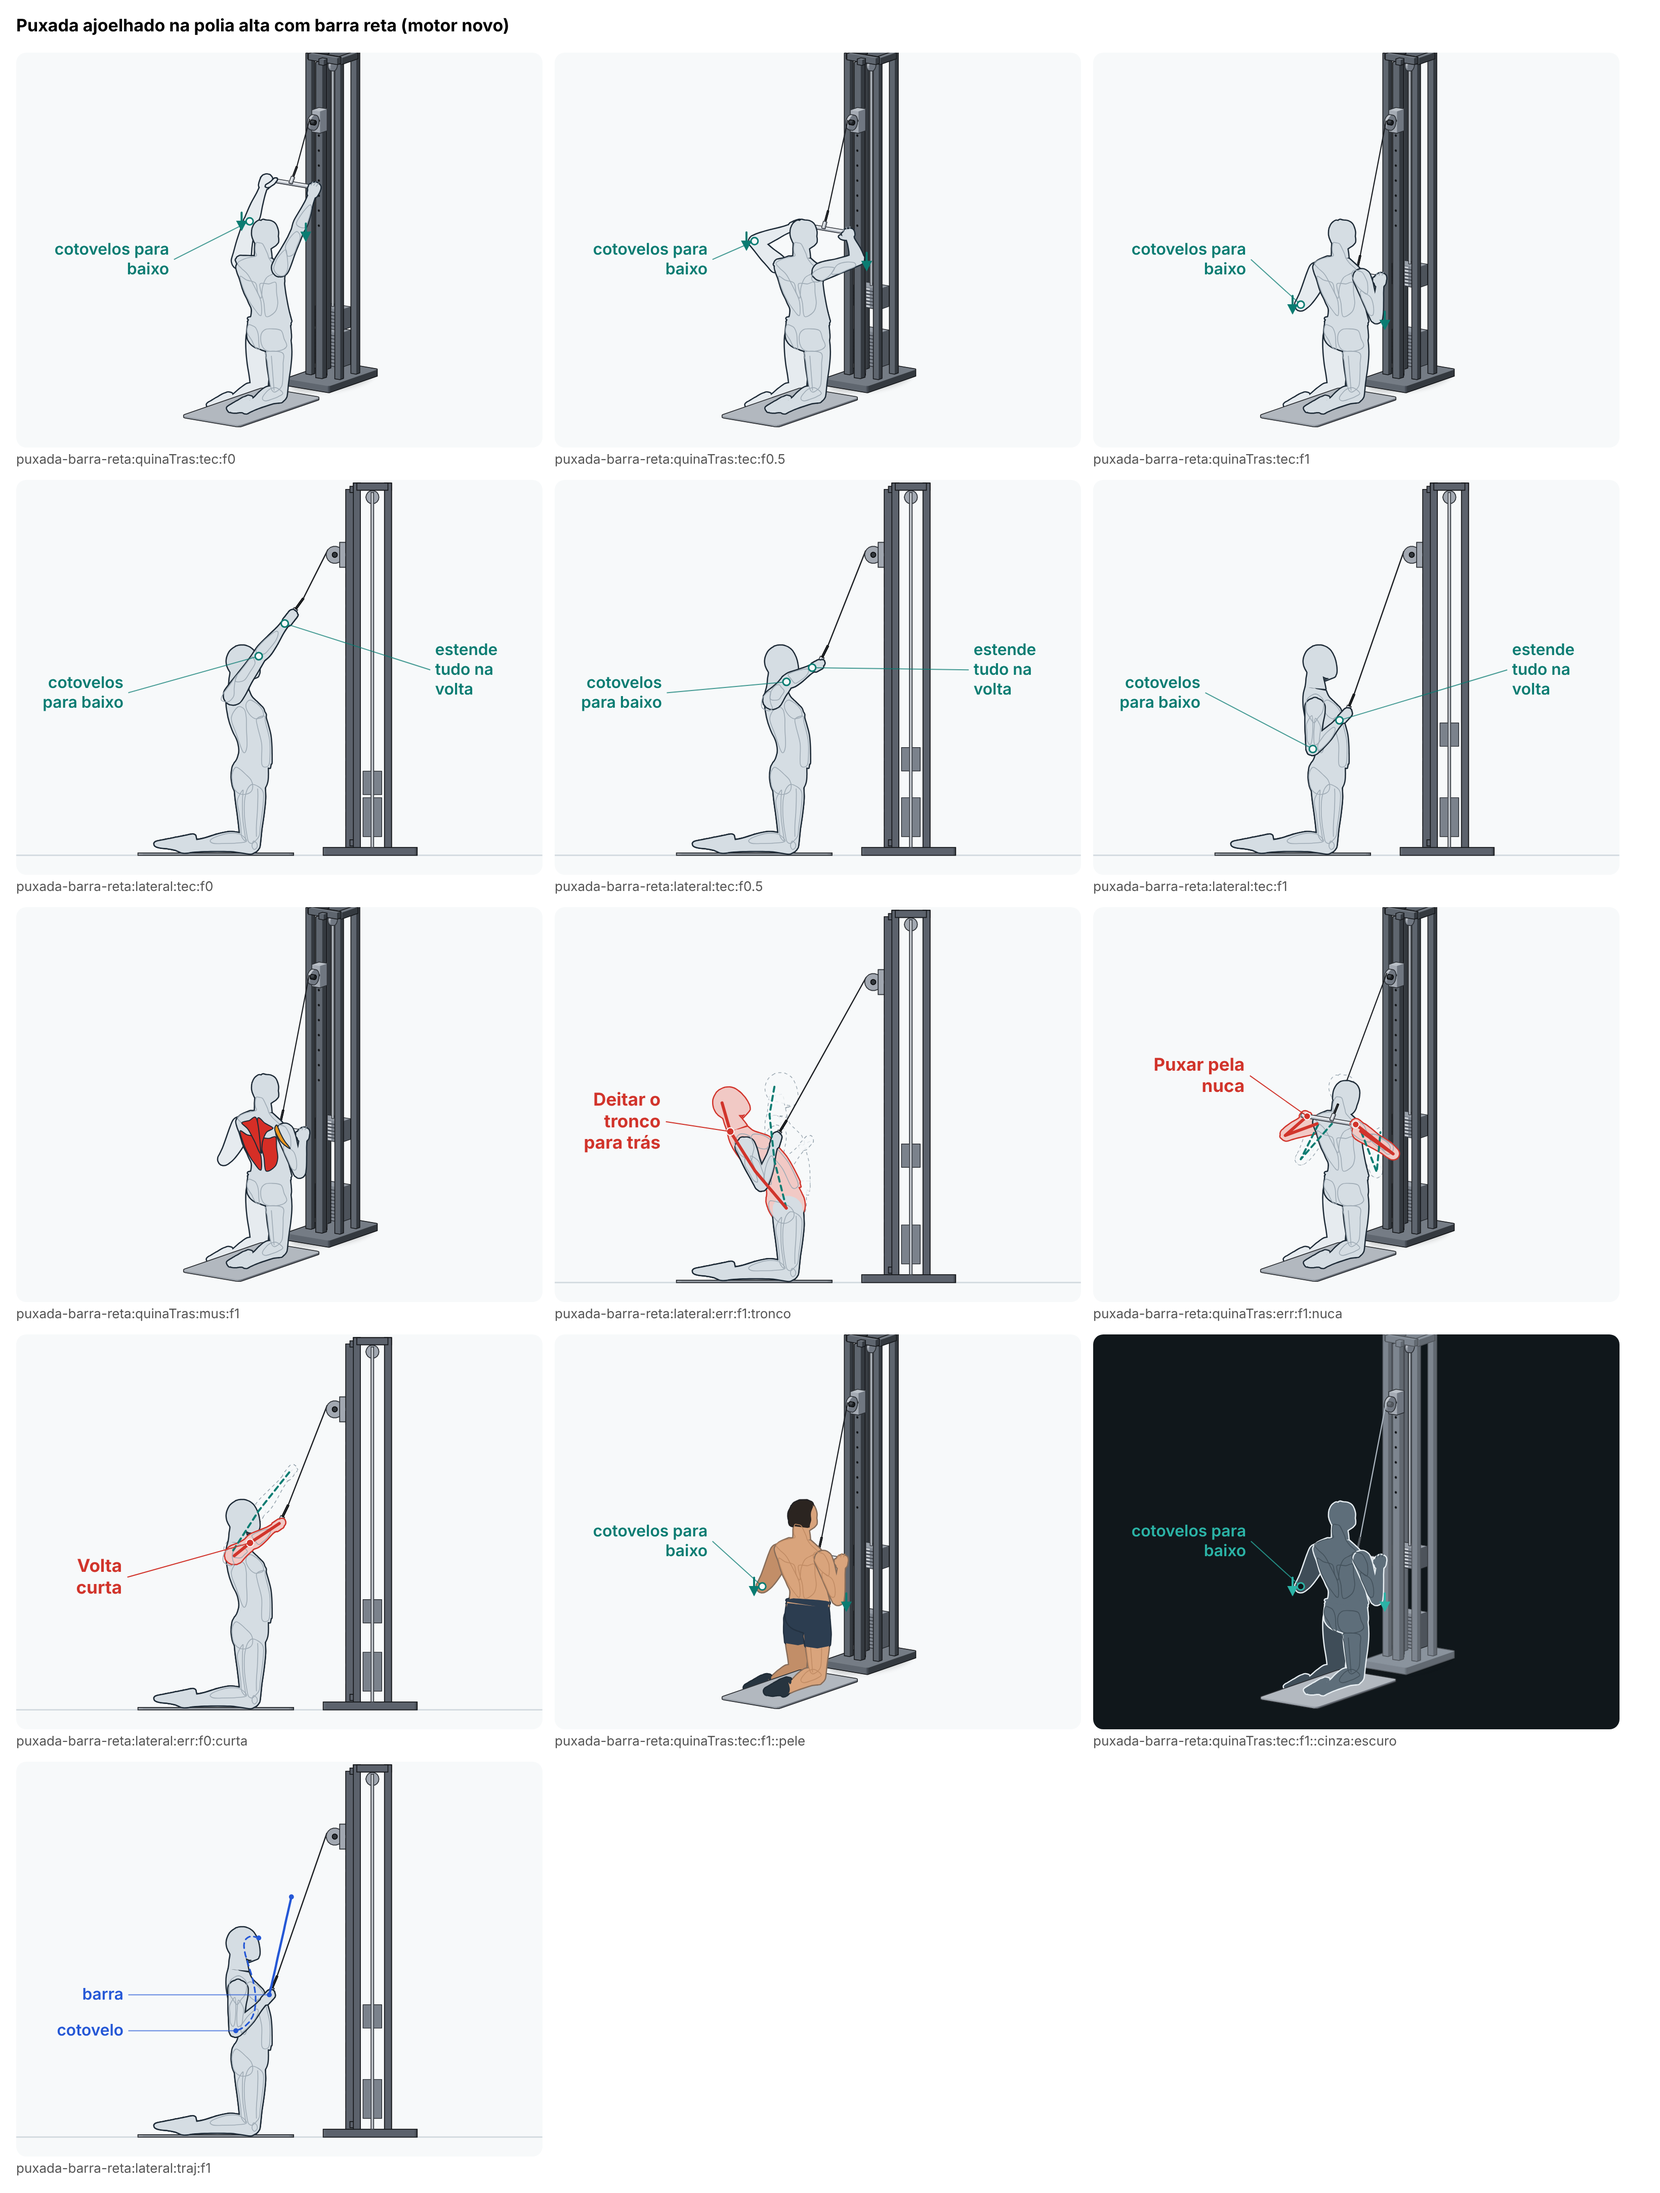
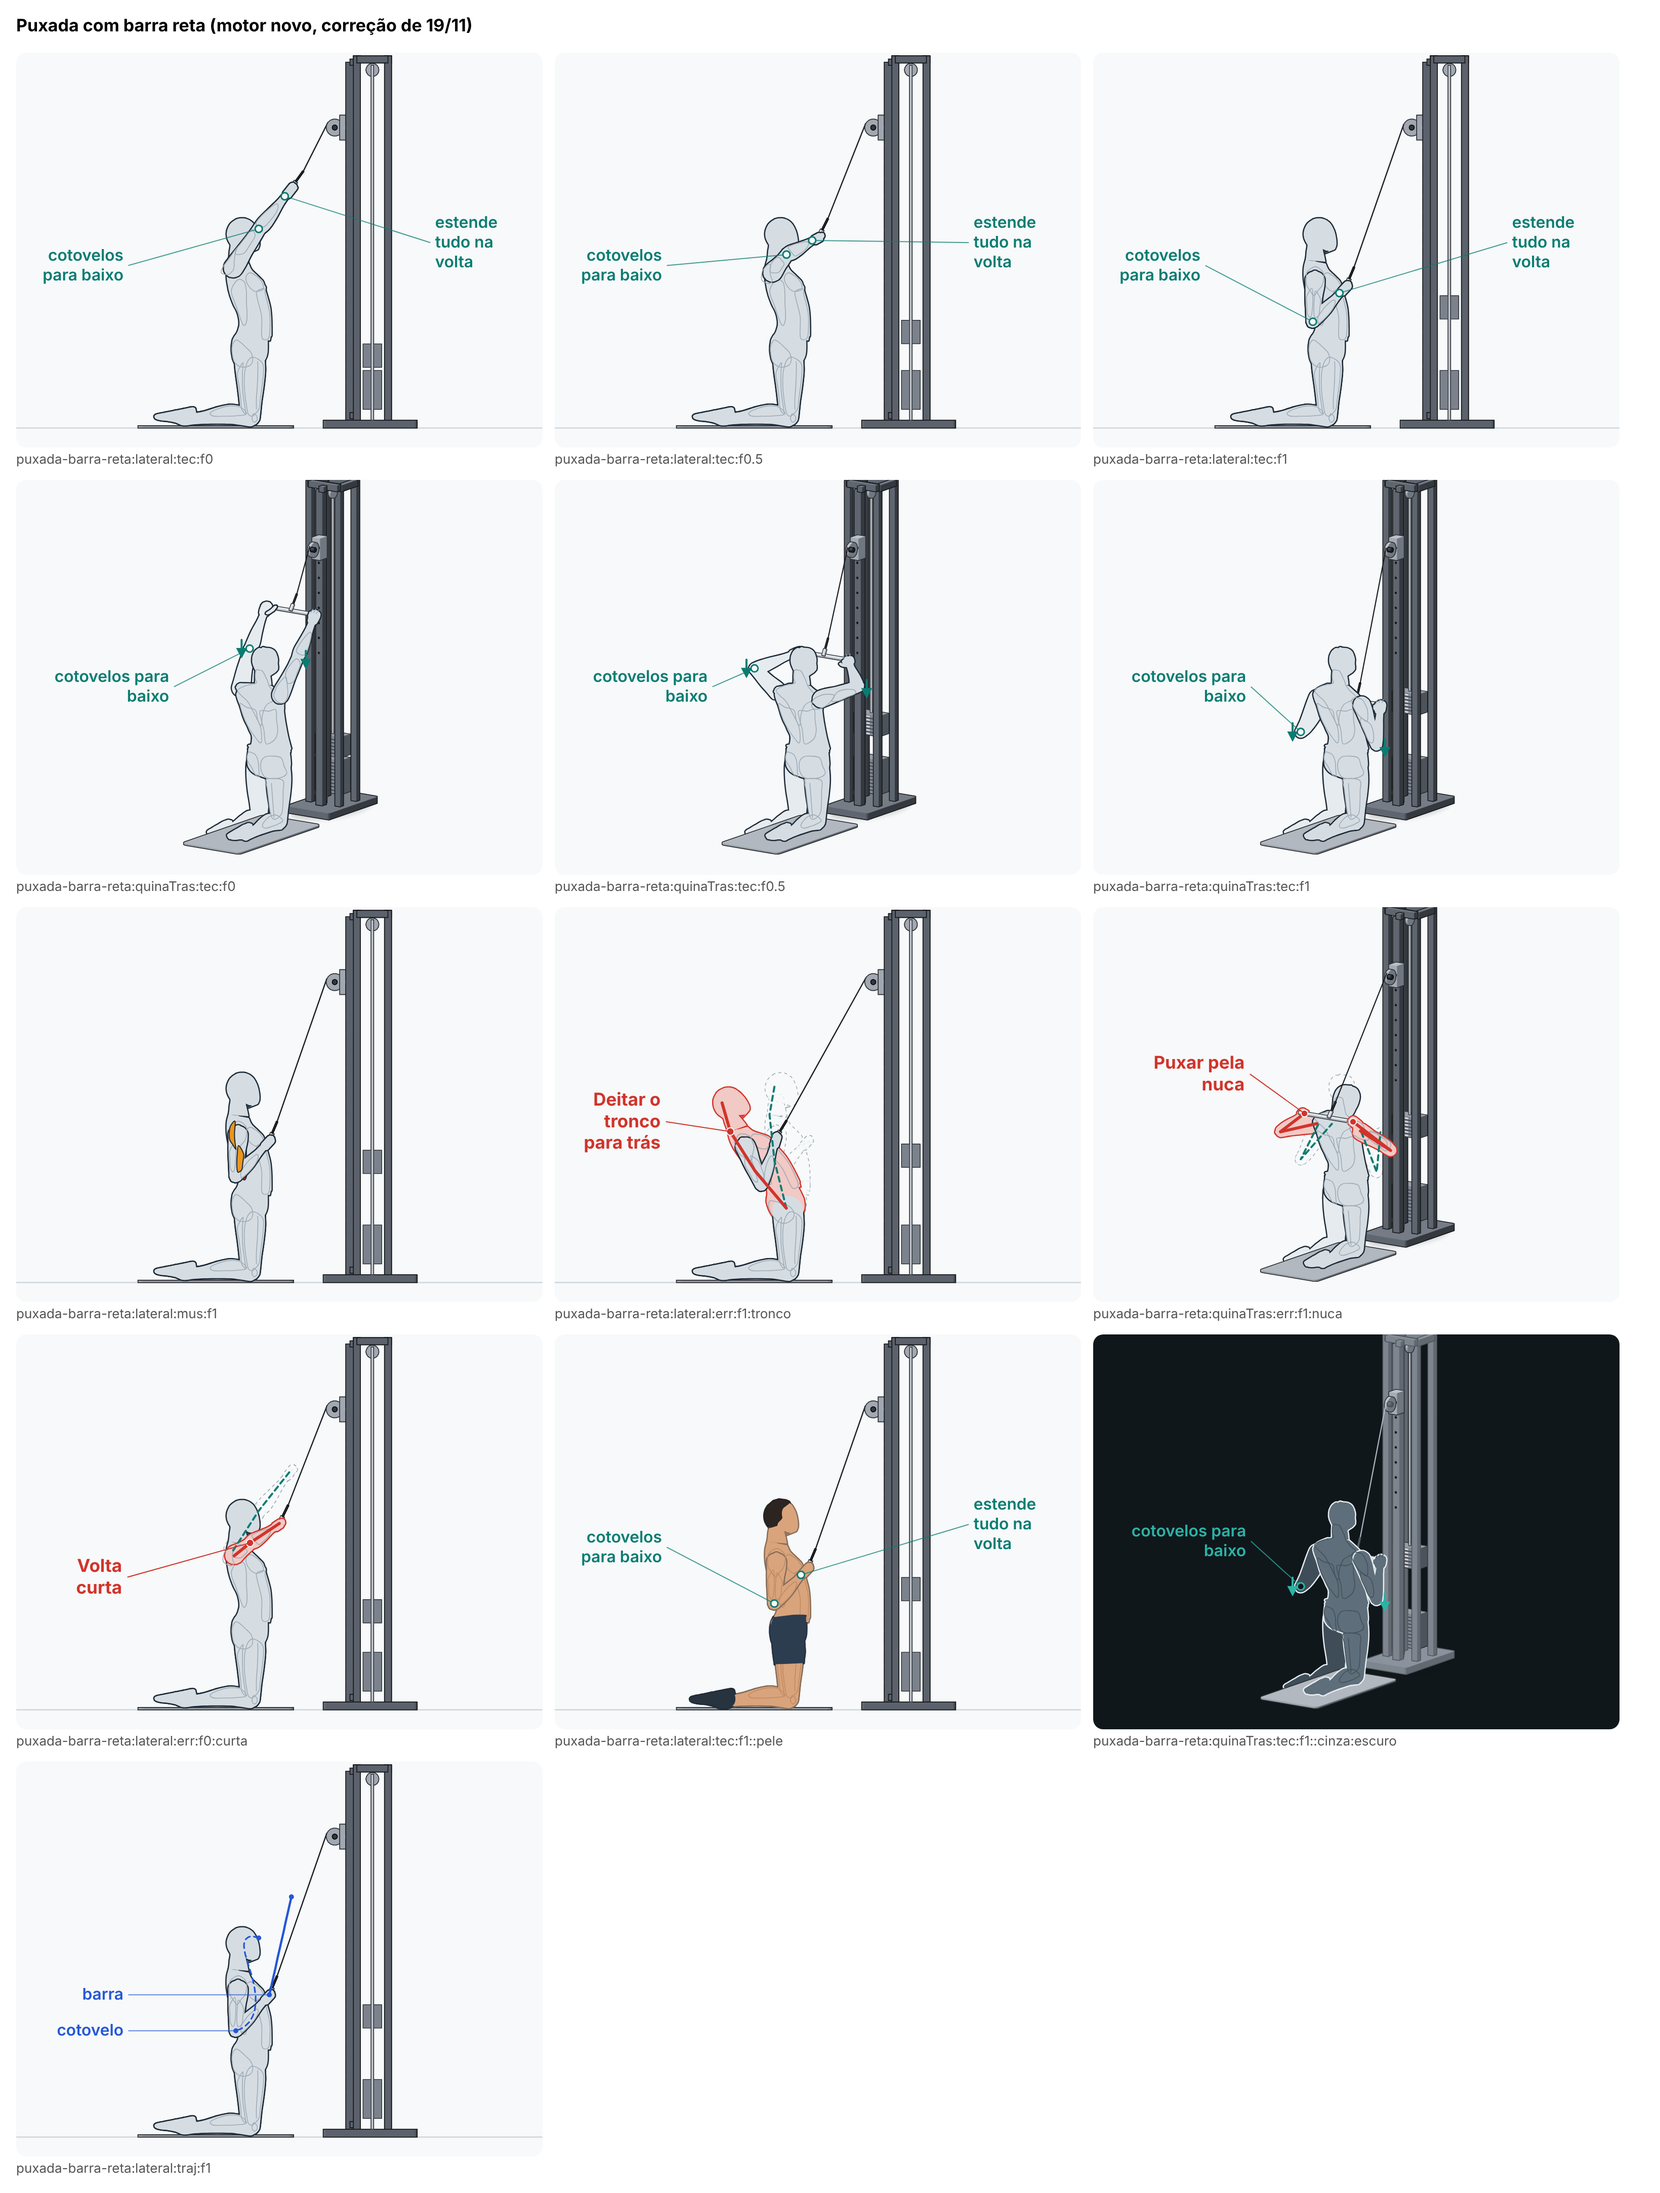
Puxada com barra reta: no erro "Puxar pela nuca", o cabo passa por cima da cabeça (auditoria M7)
No fim do erro o cabo, que sobe da barra atrás do pescoço até a roldana,
atravessava a cabeça (até 4,4 cm). A cabeça vai mais à frente e para baixo
(pescoço 30°, queixo 16°; eram 22° e 10°), e a barra para 12 cm acima dos
ombros e a 5 cm da nuca (eram 9 e 2): o cabo passa a 1 cm da cabeça. No erro,
o cabo é desenhado em dois trechos, partidos sobre o alto da cabeça, para o
trecho de trás da cabeça ser pintado por cima dela de três quartos por trás.

Regra comum `cabos-fora-do-corpo-nos-erros` ligada nesta ficha. Falha no
estado antigo, passa no novo.

Claude-Session: https://claude.ai/code/session_01YRzts8DBGbsca9onebcMt1

diff --git a/src/engine/novo/exercicios/puxada-barra-reta.ts b/src/engine/novo/exercicios/puxada-barra-reta.ts
@@ -21,7 +21,7 @@ import type { Peca } from '../pecas';
 import { barraReta, montarBarra } from '../pecas-de-cena/polia-braco-barra-reta';
 import type { Corpo } from '../tabelas';
 import { obj } from '../tabelas';
-import { add, dirRef, dist, mix, mul, noRef, norm, paraRef, sub } from '../vec';
+import { add, dirRef, dist, dot, mix, mul, noRef, norm, paraRef, sub } from '../vec';
 import type { V3 } from '../vec';
 import { alcanceDoBraco } from './dobrar-o-quadril';
 import { colunasECabos, compDoCabo, menorNoCiclo } from './polia-bracos';
@@ -181,7 +181,18 @@ function quadro(corpo: Corpo, u: number, erro?: string): Quadro {
   const barra = barraDe(e, c.cabos);
   const pb = barraReta(barra);
   const col = colunasECabos(c.cabos, [barra.ponta], c.repouso, f('pilha.folga'), false, CORTADA_EM);
-  const pecas: Peca[] = [{ t: 'colchonete', x0: 0, z0: -22 }, ...col.pecas!.filter((p) => p.t === 'torre'), pb.peca, ...col.pecas!.filter((p) => p.t !== 'torre')];
+  // no erro "nuca", o cabo sobe da barra (atrás do pescoço) por cima da cabeça até a roldana: desenhado em dois trechos,
+  // partidos no ponto mais perto do alto da cabeça, cada um pintado na profundidade dele (o trecho de trás da cabeça na
+  // frente dela, de três quartos por trás; um trecho só ficava inteiro atrás do corpo)
+  const cabos = col.pecas!.flatMap((p): Peca[] => {
+    if (erro !== 'nuca' || p.t !== 'cabo') return p.t === 'torre' ? [] : [p];
+    const topo = noRef(e.cabeca, [0, 12, 0]);
+    const ab = sub(p.b, p.a);
+    const s = Math.max(0, Math.min(1, dot(sub(topo, p.a), ab) / dot(ab, ab)));
+    const meio = add(p.a, mul(ab, s));
+    return [{ t: 'cabo', a: p.a, b: meio }, { t: 'cabo', a: meio, b: p.b }];
+  });
+  const pecas: Peca[] = [{ t: 'colchonete', x0: 0, z0: -22 }, ...col.pecas!.filter((p) => p.t === 'torre'), pb.peca, ...cabos];
   const marcas: Record<string, V3> = { ...col.marcas, barra: barra.meio, 'barra.a': barra.a, 'barra.b': barra.b };
   return {
     esq: e,

diff --git a/docs/revisoes/animacao-nova/lote-A5/puxada-barra-reta.md b/docs/revisoes/animacao-nova/lote-A5/puxada-barra-reta.md
@@ -59,3 +59,29 @@ Não há correção registrada para este exercício. Da puxada unilateral, valem
 - **O corpo fica menor no quadro de três quartos** (a coluna de 2,39 m entra inteira de lado e quase inteira de três quartos), do mesmo tamanho da puxada unilateral aprovada.
 - **De lado, o fio do rótulo "estende tudo na volta"** cruza o cabo para chegar ao punho. Troquei a dica "peito aberto" (que apontava para o ombro e cruzava o fio do cotovelo) por esta, que fica do outro lado.
 - **A força do cabo não entra no equilíbrio**, como em todas as animações na polia.
+
+## Correção de 19/11 (auditoria)
+
+A auditoria das fases A e B (M7) achou que, no erro "Puxar pela nuca", de três quartos por trás, o cabo atravessa a cabeça (3,9 cm) e o pescoço (2,6 cm), e a fita do engate entra 1,6 cm no pescoço. A animação saiu da aprovação até a correção.
+
+**A causa.** No fim do erro, a barra fica atrás do pescoço, rente à nuca (2 cm), e o cabo sobe dela até a roldana, no alto e à frente: com o pescoço dobrado só 22° e o queixo 10°, a cabeça ficava na linha do cabo.
+
+**A mudança** (só no erro, dentro do que a ficha diz: "a cabeça vai à frente e a barra desce atrás dela, até a nuca"):
+
+1. O pescoço dobra 30° (era 22°; `erro.nuca.cervical`) e o queixo vai ao peito 16° (era 10°; `erro.nuca.cabeca`): a cabeça vai mais à frente e para baixo.
+2. A barra para 12 cm acima do centro dos ombros (era 9; `erro.nuca.acima`) e a 5 cm da pele da nuca (era 2; `erro.nuca.folga`).
+3. O cabo do erro é desenhado em dois trechos, partidos no ponto mais perto do alto da cabeça, cada um pintado na sua profundidade: de três quartos por trás, o trecho que desce por trás da cabeça até a barra aparece por cima dela (um trecho só era pintado inteiro atrás do corpo, e o cabo parecia passar por dentro da cabeça). O ciclo certo e os outros erros continuam com o cabo inteiro.
+
+**A regra nova** (comum, `cabos-fora-do-corpo-nos-erros`, em `regras/vistas-do-guia.ts`, ligada só nas fichas do tríceps com barra reta, da puxada com barra reta e da rosca de costas): em cada erro, em 6 instantes (0, 1/4, 1/2, 3/4, 1 e o instante do erro), cada cabo e cada fita do engate (os fios do quadro, fora os riscos da pilha), de meio em meio centímetro, contra o corpo inteiro (os dois lados): quanto entram em cada parte, medido na elipse do anel do Boneco interpolado ali. Não podem entrar mais de 0,5 cm. Ficam de fora as mãos que seguram e, delas, o antebraço a até 8 cm do punho, como na regra do cabo no ciclo (`polia-braco-cabos-livres-do-corpo`, que só olha o ciclo certo).
+
+| | antes (`1828c0e`) | depois |
+|---|---|---|
+| "Puxar pela nuca": quanto o cabo entra no corpo (pior instante) | **4,4 cm (cabeça)** | passa a 1 cm da cabeça |
+| "Deitar o tronco para trás" e "Volta curta" | a fita do engate passa a 0,6 cm da cabeça | igual |
+| no fim do erro: pescoço, queixo, barra acima dos ombros, barra à nuca | 22°, 10°, 9 cm, 2 cm | 30°, 16°, 12 cm, 5 cm |
+
+Rodada no estado de antes (o exercício e a ficha de `1828c0e`, com a regra nova), a conferência dá **1 falha** (esta regra). No estado novo: **0 falhas**, os mesmos avisos de antes.
+
+**Olhado nos quadros** (`quadros/puxada-barra-reta.png`, e de três quartos por trás a 30%, 60%, 80% e 100% do erro): a barra passa por cima da cabeça e desce atrás dela até a nuca; o cabo sobe da barra por cima da nuca e do alto da cabeça até a roldana. No tema escuro e no cor de pele, igual.
+
+**O que ainda não ficou bom.** A barra para a 5 cm da nuca, e não encostada nela: é o que deixa o cabo passar por cima da cabeça com a cabeça dobrada só até onde o pescoço vai sem forçar. A cabeça baixa mais que antes (46° somando pescoço e cabeça).
